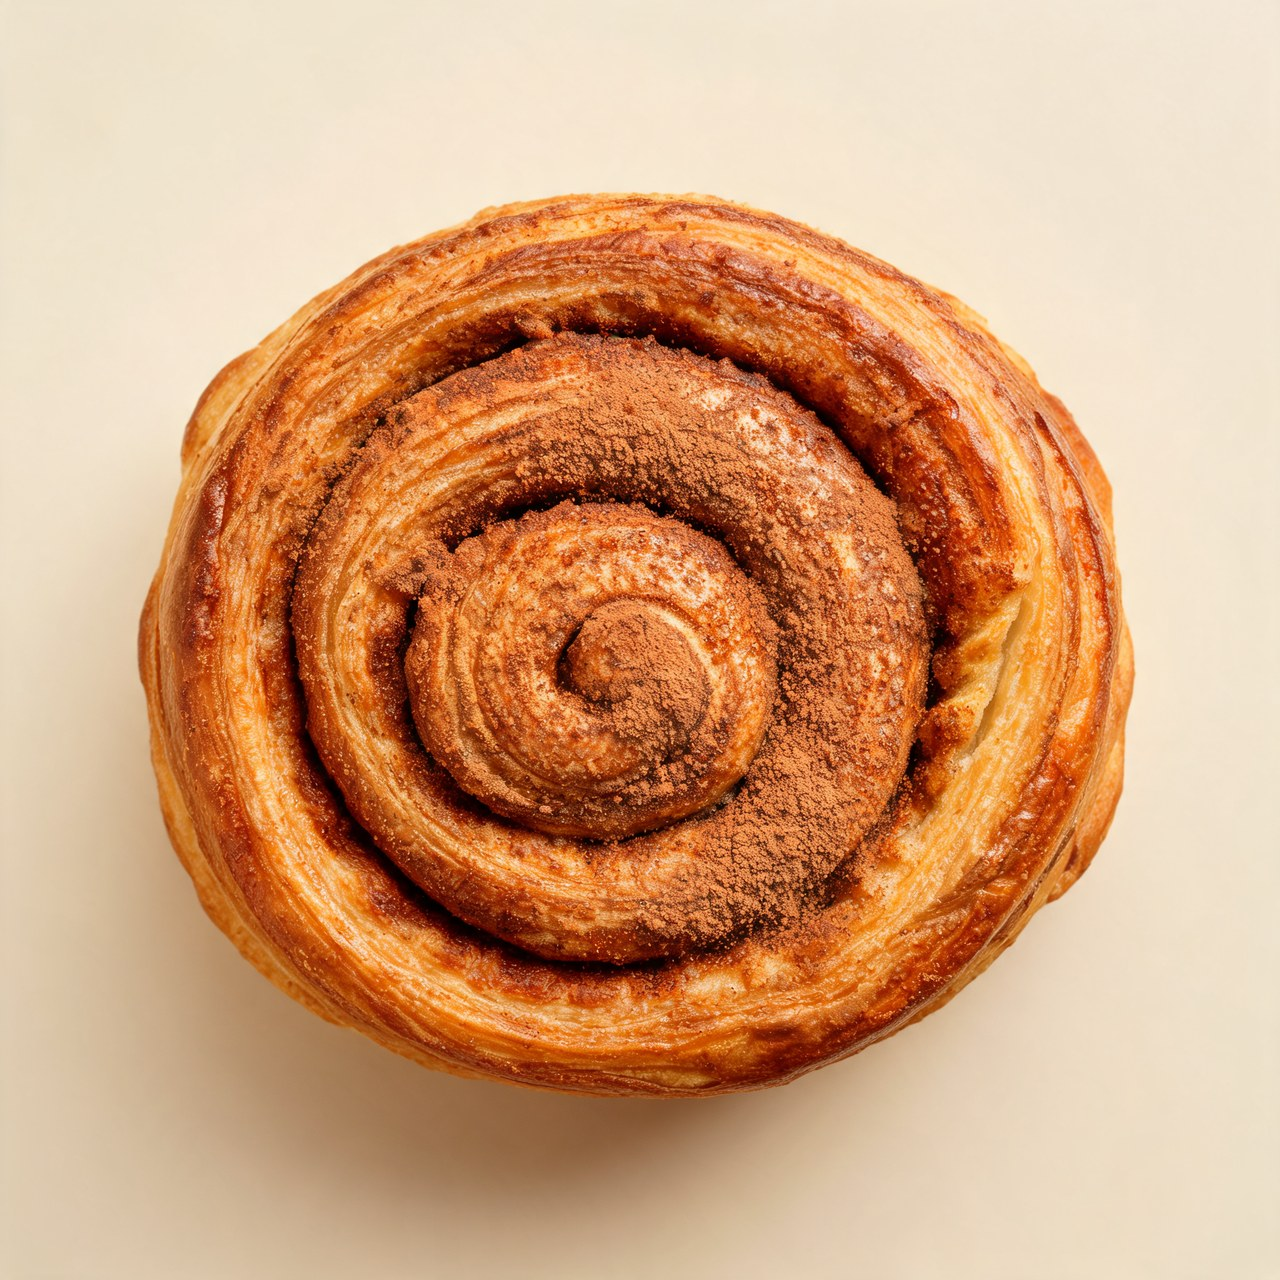
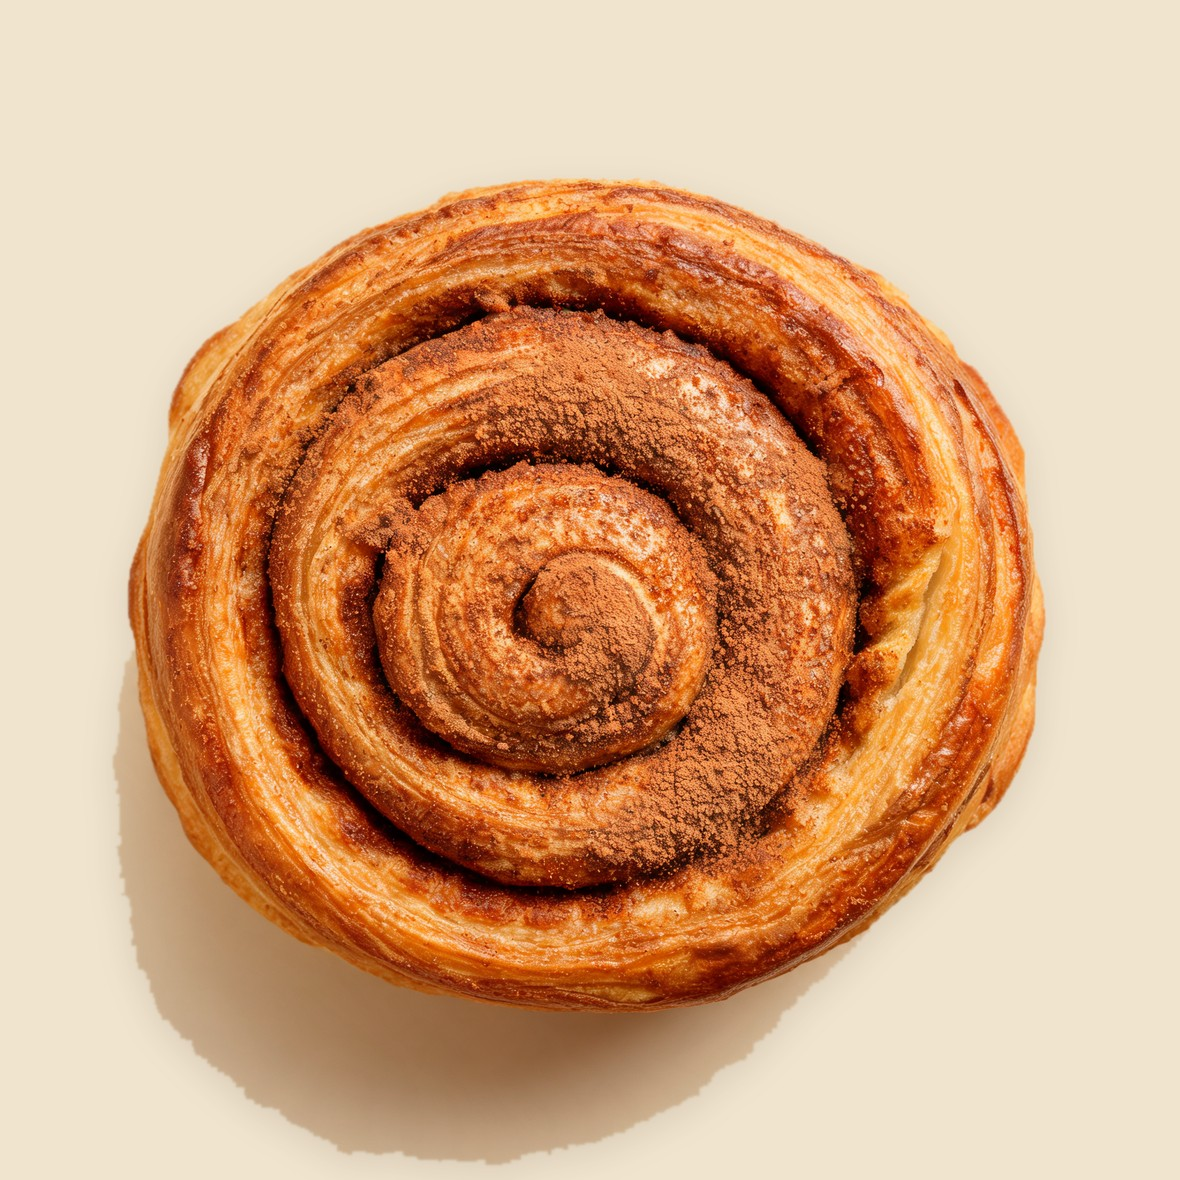
Faxi Bakery: seamless cream hero, bold centered headline, mobile polish
- Headline now renders the original bold Bricolage weight (uniform 800),
  truly centered, with the hover kept as a per-letter scale "press"
  (TextPressure: minWeight/scaleAmount/initialFromCenter props added)
- Brand cream set to the photo's exact background (#F1E4CE) and the hero
  photo's own background flattened to that same color, so the crisp bun
  sits seamlessly with no rectangle and no feather. Cream echoes site-wide
- Mobile audit: left-wordmark/right-pill nav, headline fits one line,
  hero footer stacks, grids collapse cleanly

diff --git a/src/preview/faxibakery/Page.tsx b/src/preview/faxibakery/Page.tsx
@@ -27,16 +27,19 @@ import { IMAGES, FALLBACK, MENU, STATS, VISIT } from './data'
 
 const company = getPreviewCompany('faxibakery')
 
-// ── Design tokens (from handoff) ─────────────────────────────────────────────
-const CREAM = '#ECE3D1' // page base
-const CREAM_LIGHT = '#F6F0E3' // surfaces / text on dark
+// ── Design tokens ────────────────────────────────────────────────────────────
+// Cream is sampled EXACTLY from the hero photo's own background edge (#F0E4CF),
+// so the page and the crisp photo are the same tone — the photo's rectangular
+// edges dissolve into the page with no feather and no visible seam.
+const CREAM = '#F1E4CE' // page base — the photo's background cream, exactly
+const CREAM_LIGHT = '#FAF3E4' // surfaces / text on dark (light warm tint of cream)
 const INK = '#1B1712' // volcanic near-black
 const MOSS = '#4C5A41' // moss green
 const MOSS_LIGHT = '#A7B197' // muted labels on dark
 const SAND = '#D7CDB6' // muted labels on moss
 const CARAMEL = '#C2773A' // warm script accent
-const HERO_GRADIENT =
-  'radial-gradient(120% 90% at 50% 8%, #F2EADA 0%, #E7DCC4 46%, #DCCEAF 100%)'
+// Flat cream behind the hero, identical to the photo background.
+const HERO_BG = CREAM
 const IG = 'https://www.instagram.com/faxi_bakery_/'
 // Full weight-axis Bricolage for the TextPressure headline (variable wght 200–800).
 const BRICOLAGE_VF =
@@ -50,6 +53,7 @@ const STEAM = { warmth: '#FBE6C6', opacity: 0.18, spread: 520, speed: 1, wisps: 
 // ── Scoped CSS — keyframes + hover states (handoff uses :hover / style-hover) ──
 const PAGE_CSS = `
   .faxi-page ::selection { background:${MOSS}; color:${CREAM_LIGHT}; }
+  .faxi-headline { letter-spacing:-.03em; display:flex !important; justify-content:center; align-items:baseline; }
 
   @keyframes faxi-steamA {
     0%   { opacity:0; transform:translate(0,8px) scaleX(.65) scaleY(.85); }
@@ -92,7 +96,10 @@ const PAGE_CSS = `
     .faxi-stat-strip { grid-template-columns:repeat(2,1fr) !important; row-gap:30px !important; }
   }
   @media (max-width:560px) {
+    .faxi-nav { grid-template-columns:auto 1fr !important; }
     .faxi-nav-links { display:none !important; }
+    .faxi-herofoot { flex-direction:column; align-items:flex-start !important; gap:12px; }
+    .faxi-hours { text-align:left !important; }
   }
   @media (prefers-reduced-motion: reduce) {
     .faxi-card { transition:none; }
@@ -254,11 +261,12 @@ export default function FaxiBakeryPage() {
           display: 'flex',
           flexDirection: 'column',
           padding: '26px clamp(20px,4vw,56px) 0',
-          background: HERO_GRADIENT,
+          background: HERO_BG,
         }}
       >
         {/* nav */}
         <nav
+          className="faxi-nav"
           style={{
             display: 'grid',
             gridTemplateColumns: '1fr auto 1fr',
@@ -304,30 +312,31 @@ export default function FaxiBakeryPage() {
 
         {/* headline */}
         <div style={{ textAlign: 'center', marginTop: 'clamp(10px,2vh,22px)', position: 'relative', zIndex: 4 }}>
-          <div style={{ display: 'flex', alignItems: 'center', justifyContent: 'center', gap: 'clamp(12px,2.2vw,30px)' }}>
-            <span style={{ height: 2, width: 'clamp(20px,4.5vw,80px)', flexShrink: 0, background: '#1B171255' }} />
-            {reduced ? (
-              <h1 style={{ fontFamily: "'Bricolage Grotesque', sans-serif", fontWeight: 800, fontSize: 'clamp(42px,9vw,138px)', lineHeight: 0.82, letterSpacing: '-.035em', margin: 0, color: INK, whiteSpace: 'nowrap' }}>CINNAMON ROLL</h1>
-            ) : (
-              // TextPressure (react-bits): letters near the cursor bulge in weight,
-              // using the brand Bricolage variable font. Pointer-driven, not autoplay.
-              <div style={{ flex: '1 1 auto', minWidth: 0, maxWidth: 'min(92vw,900px)', height: 'clamp(54px,9.2vw,132px)' }}>
+          {reduced ? (
+            <h1 className="faxi-headline" style={{ fontFamily: "'Bricolage Grotesque', sans-serif", fontWeight: 800, fontSize: 'clamp(40px,9vw,132px)', lineHeight: 0.9, letterSpacing: '-.035em', margin: 0, color: INK, whiteSpace: 'nowrap' }}>CINNAMON ROLL</h1>
+          ) : (
+            // TextPressure (react-bits): the headline keeps the original bold
+            // Bricolage weight; letters near the cursor "press" by scaling up.
+            <div style={{ width: 'min(67vw,900px)', margin: '0 auto', height: 'clamp(46px,8.4vw,122px)' }}>
                 <TextPressure
                   text={'CINNAMON ROLL'}
                   fontFamily="Bricolage Grotesque"
                   fontUrl={BRICOLAGE_VF}
+                  className="faxi-headline"
                   flex={false}
                   width={false}
                   weight
                   italic={false}
                   alpha={false}
+                  minWeight={800}
+                  maxWeight={0}
+                  scaleAmount={1.3}
+                  initialFromCenter={false}
                   textColor={INK}
-                  minFontSize={40}
+                  minFontSize={36}
                 />
-              </div>
-            )}
-            <span style={{ height: 2, width: 'clamp(20px,4.5vw,80px)', flexShrink: 0, background: '#1B171255' }} />
-          </div>
+            </div>
+          )}
           <div style={{ fontFamily: "'Caveat', cursive", fontWeight: 700, fontSize: 'clamp(30px,6vw,86px)', color: MOSS, lineHeight: 0.7, marginTop: '-.06em', transform: 'rotate(-3deg)' }}>fresh, every hour</div>
         </div>
 
@@ -342,9 +351,9 @@ export default function FaxiBakeryPage() {
           {/* steam */}
           <Steam reduced={reduced} />
 
-          {/* hero photo — sits on its own cream ground, feathered into the page.
-              The inner layer carries the scroll-linked spin; the circular feather
-              mask is rotation-invariant, so the seamless blend is preserved. */}
+          {/* hero photo — crisp, unfeathered. Its own cream background is the
+              exact same tone as the page (CREAM), so the square edges dissolve
+              into the page while the bun stays sharp. */}
           <div
             style={{
               position: 'absolute',
@@ -361,11 +370,8 @@ export default function FaxiBakeryPage() {
                 rotate: reduced ? 0 : rollSpin,
                 scale: reduced ? 1 : rollScale,
                 y: reduced ? 0 : rollLift,
+                transformOrigin: '50% 46%',
                 willChange: 'transform',
-                // Feather the photo's flat-cream ground completely away — only the
-                // bun and a soft halo survive, so it sits on the page with no seam.
-                WebkitMaskImage: 'radial-gradient(circle closest-side at 50% 46%, #000 0%, #000 78%, rgba(0,0,0,0) 99%)',
-                maskImage: 'radial-gradient(circle closest-side at 50% 46%, #000 0%, #000 78%, rgba(0,0,0,0) 99%)',
               }}
             >
               <img
@@ -380,12 +386,12 @@ export default function FaxiBakeryPage() {
         </div>
 
         {/* hero footer row */}
-        <div style={{ display: 'flex', justifyContent: 'space-between', alignItems: 'flex-end', gap: 20, padding: '0 0 26px', position: 'relative', zIndex: 4 }}>
+        <div className="faxi-herofoot" style={{ display: 'flex', justifyContent: 'space-between', alignItems: 'flex-end', gap: 20, padding: '0 0 26px', position: 'relative', zIndex: 4 }}>
           <div style={{ maxWidth: 340 }}>
             <div style={{ fontFamily: "'Bricolage Grotesque', sans-serif", fontWeight: 700, fontSize: 'clamp(18px,2vw,23px)', lineHeight: 1.05, letterSpacing: '-.01em' }}>A bakery with unregular stuff.</div>
             <div style={{ fontSize: 13.5, color: '#1B1712aa', marginTop: 7, lineHeight: 1.45 }}>Pulled off Route 1 in Hvolsvöllur, under the Eyjafjallajökull volcano. Nice coffee, cool setup.</div>
           </div>
-          <div style={{ textAlign: 'right', fontSize: 12.5, fontWeight: 600, letterSpacing: '.1em', color: MOSS, textTransform: 'uppercase', lineHeight: 1.6 }}>
+          <div className="faxi-hours" style={{ textAlign: 'right', fontSize: 12.5, fontWeight: 600, letterSpacing: '.1em', color: MOSS, textTransform: 'uppercase', lineHeight: 1.6, whiteSpace: 'nowrap' }}>
             Open every day<br />9 — 8
           </div>
         </div>
@@ -450,7 +456,7 @@ export default function FaxiBakeryPage() {
             {MENU.map((item) => (
               <div key={item.slotId} data-reveal style={revealInit(reduced, 0, 0.8)}>
                 <div className="faxi-card" style={{ background: CREAM_LIGHT, borderRadius: 20, overflow: 'hidden', border: '1px solid #1B17120F', cursor: 'pointer' }}>
-                  <div style={{ position: 'relative', aspectRatio: '5 / 4', overflow: 'hidden', background: '#E4D9C2' }}>
+                  <div style={{ position: 'relative', aspectRatio: '5 / 4', overflow: 'hidden', background: '#E5D5BA' }}>
                     <Img src={item.img} alt={item.shot} fallbackClassName={item.fallback} style={{ width: '100%', height: '100%', objectFit: 'cover', display: 'block' }} />
                     {item.tag && (
                       <span style={{ position: 'absolute', top: 12, left: 12, background: INK, color: CREAM_LIGHT, fontSize: 11, fontWeight: 700, letterSpacing: '.06em', textTransform: 'uppercase', padding: '6px 11px', borderRadius: 100 }}>{item.tag}</span>

diff --git a/src/components/TextPressure.jsx b/src/components/TextPressure.jsx
@@ -31,6 +31,16 @@ const TextPressure = ({
   italic = true,
   alpha = false,
 
+  // Weight range fed to the variable font (far = minWeight, near = minWeight+maxWeight).
+  minWeight = 100,
+  maxWeight = 900,
+  // Per-letter proximity scale (1 = off). Lets the headline keep a constant
+  // bold weight while still "pressing" — letters near the cursor scale up.
+  scaleAmount = 1,
+  // When false, the pointer starts "away" so the text rests at its base
+  // weight/scale (uniform) until the user actually moves over it.
+  initialFromCenter = true,
+
   flex = true,
   stroke = false,
   scale = false,
@@ -70,8 +80,14 @@ const TextPressure = ({
 
     if (containerRef.current) {
       const { left, top, width, height } = containerRef.current.getBoundingClientRect();
-      mouseRef.current.x = left + width / 2;
-      mouseRef.current.y = top + height / 2;
+      if (initialFromCenter) {
+        mouseRef.current.x = left + width / 2;
+        mouseRef.current.y = top + height / 2;
+      } else {
+        // Park the pointer far away so the text rests uniform until hovered.
+        mouseRef.current.x = -9999;
+        mouseRef.current.y = -9999;
+      }
       cursorRef.current.x = mouseRef.current.x;
       cursorRef.current.y = mouseRef.current.y;
     }
@@ -135,7 +151,7 @@ const TextPressure = ({
           const d = dist(mouseRef.current, charCenter);
 
           const wdth = width ? Math.floor(getAttr(d, maxDist, 5, 200)) : 100;
-          const wght = weight ? Math.floor(getAttr(d, maxDist, 100, 900)) : 400;
+          const wght = weight ? Math.floor(getAttr(d, maxDist, minWeight, maxWeight)) : 400;
           const italVal = italic ? getAttr(d, maxDist, 0, 1).toFixed(2) : 0;
           const alphaVal = alpha ? getAttr(d, maxDist, 0, 1).toFixed(2) : 1;
 
@@ -147,6 +163,14 @@ const TextPressure = ({
           if (alpha && span.style.opacity !== alphaVal) {
             span.style.opacity = alphaVal;
           }
+          if (scaleAmount > 1) {
+            const s = 1 + (scaleAmount - 1) * Math.max(0, 1 - d / maxDist);
+            const newTransform = `scale(${s.toFixed(3)})`;
+            if (span.style.transform !== newTransform) {
+              span.style.transform = newTransform;
+              span.style.transformOrigin = 'center 72%';
+            }
+          }
         });
       }
 
@@ -155,7 +179,7 @@ const TextPressure = ({
 
     animate();
     return () => cancelAnimationFrame(rafId);
-  }, [width, weight, italic, alpha]);
+  }, [width, weight, italic, alpha, minWeight, maxWeight, scaleAmount]);
 
   const styleElement = useMemo(() => {
     return (

diff --git a/src/preview/faxibakery/data.ts b/src/preview/faxibakery/data.ts
@@ -28,8 +28,8 @@ export const IMAGES = {
 
 /** Warm gradient fallbacks so a dead URL never breaks the layout. */
 export const FALLBACK = {
-  cream:   'bg-gradient-to-br from-[#ECE3D1] to-[#DCCEAF]',
-  card:    'bg-gradient-to-br from-[#E4D9C2] to-[#d8c8a6]',
+  cream:   'bg-gradient-to-br from-[#F1E4CE] to-[#E6D2B8]',
+  card:    'bg-gradient-to-br from-[#E5D5BA] to-[#d6c4a0]',
   volcano: 'bg-gradient-to-br from-[#b8cfd8] to-[#8faab5]',
   moss:    'bg-gradient-to-br from-[#5b6a4e] to-[#3c4733]',
   ink:     'bg-gradient-to-br from-[#2a241d] to-[#1B1712]',